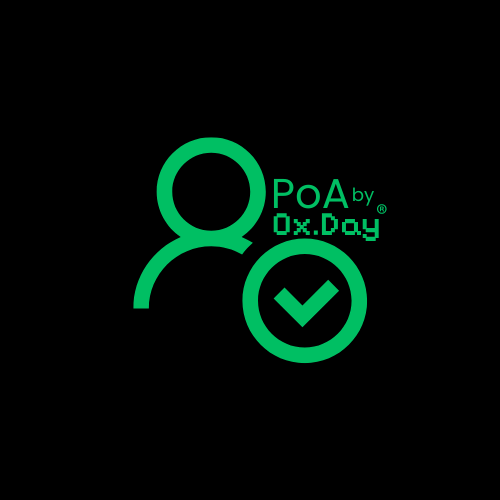
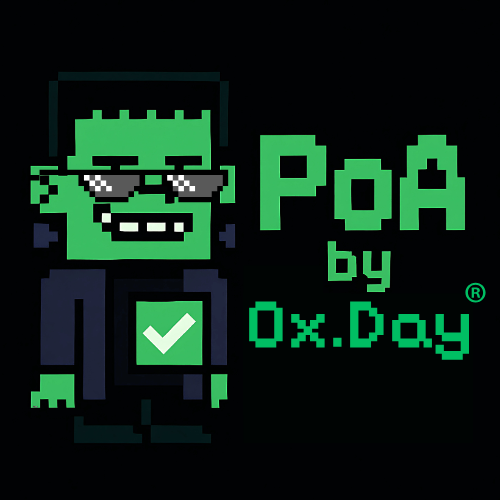
updated poa

Changed region(s): [[0.06, 0.12, 0.99, 0.9]]

diff --git a/blockchain/scripts/test-poa-metadata.js b/blockchain/scripts/test-poa-metadata.js
@@ -60,7 +60,7 @@ async function main() {
         console.log("Attributes:", JSON.stringify(metadata.attributes, null, 2));
         
         // Verify the PoA image is included
-        if (metadata.image && metadata.image.includes("Qmf3vzYCg8wszTevWdqyLJLCHZaYDPpDgMkcHFqihRgKL6")) {
+        if (metadata.image && metadata.image.includes("Qmf3aMx3nyWHpw25EgEHZjM42yTWfH8wJLbHhwZuAQbWr5")) {
             console.log("\n✅ SUCCESS: PoA image is correctly included in metadata!");
         } else {
             console.log("\n❌ ERROR: PoA image not found in metadata");

diff --git a/backend/main.py b/backend/main.py
@@ -136,7 +136,7 @@ def generate_poa_metadata(event_name, participant_name):
     return {
         "name": f"{event_name} - Proof of Attendance",
         "description": f"Official Proof of Attendance NFT for {event_name} event issued to {participant_name} by 0x.day",
-        "image": "https://gateway.pinata.cloud/ipfs/Qmf3vzYCg8wszTevWdqyLJLCHZaYDPpDgMkcHFqihRgKL6",
+        "image": "https://gateway.pinata.cloud/ipfs/Qmf3aMx3nyWHpw25EgEHZjM42yTWfH8wJLbHhwZuAQbWr5",
         "external_url": "https://0x.day",
         "issuer": "0x.day",
         "attributes": [

diff --git a/testandmisc/test_current_contract.py b/testandmisc/test_current_contract.py
@@ -61,7 +61,7 @@ def test_current_contract():
                 
                 # Check if our PoA image is present
                 image_url = metadata.get("image", "")
-                if "Qmf3vzYCg8wszTevWdqyLJLCHZaYDPpDgMkcHFqihRgKL6" in image_url:
+                if "Qmf3aMx3nyWHpw25EgEHZjM42yTWfH8wJLbHhwZuAQbWr5" in image_url:
                     print("\nSUCCESS: PoA image is present in metadata!")
                 else:
                     print(f"\nERROR: PoA image NOT found in metadata!")

diff --git a/testandmisc/create_poa_metadata.py b/testandmisc/create_poa_metadata.py
@@ -17,7 +17,7 @@ def create_and_upload_poa_metadata():
     poa_metadata = {
         "name": "Proof of Attendance (PoA)",
         "description": "Official Proof of Attendance NFT for events organized by 0x.day",
-        "image": "https://gateway.pinata.cloud/ipfs/Qmf3vzYCg8wszTevWdqyLJLCHZaYDPpDgMkcHFqihRgKL6",
+        "image": "https://gateway.pinata.cloud/ipfs/Qmf3aMx3nyWHpw25EgEHZjM42yTWfH8wJLbHhwZuAQbWr5",
         "external_url": "https://0x.day",
         "attributes": [
             {

diff --git a/testandmisc/test_new_contract.py b/testandmisc/test_new_contract.py
@@ -97,7 +97,7 @@ def test_new_contract_with_poa_image():
             
             # Check if our PoA image is present
             image_url = metadata.get("image", "")
-            if "Qmf3vzYCg8wszTevWdqyLJLCHZaYDPpDgMkcHFqihRgKL6" in image_url:
+            if "Qmf3aMx3nyWHpw25EgEHZjM42yTWfH8wJLbHhwZuAQbWr5" in image_url:
                 print("\nSUCCESS: PoA image is NOW INCLUDED in metadata!")
                 print(f"Image URL: {image_url}")
                 return True
